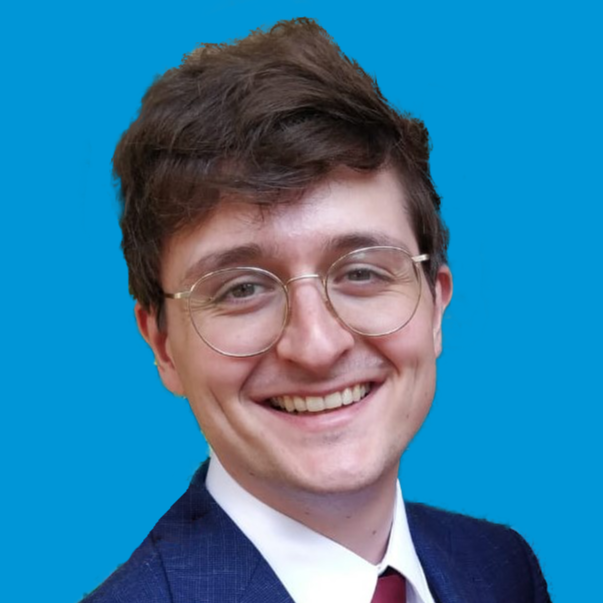
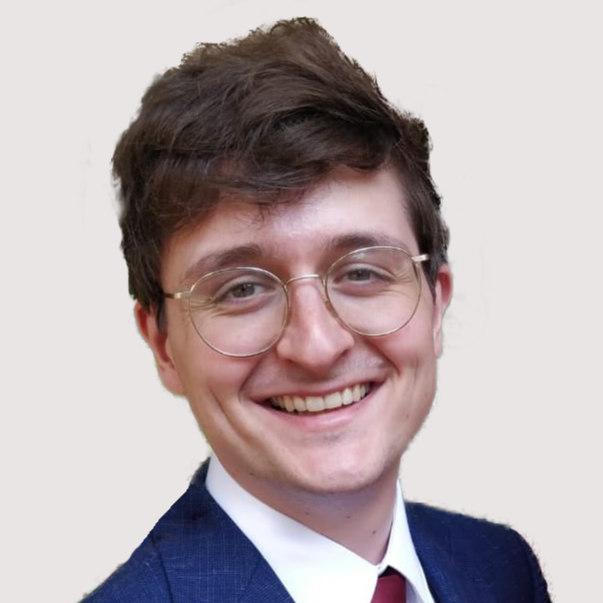
Basic Layout. Skills, Experience and Education

diff --git a/index.html b/index.html
@@ -3,9 +3,9 @@
     <head>
         <meta charset="utf-8" />
         <meta name="viewport" content="width=device-width, initial-scale=1, shrink-to-fit=no" />
-        <meta name="description" content="" />
-        <meta name="author" content="" />
-        <title>Resume - Start Bootstrap Theme</title>
+        <meta name="description" content="Resume of Christian Brandt von Fackh" />
+        <meta name="author" content="Christian Brandt von Fackh" />
+        <title>Resume - Christian Brandt von Fackh</title>
         <link rel="icon" type="image/x-icon" href="assets/img/favicon.ico" />
         <!-- Font Awesome icons (free version)-->
         <script src="https://use.fontawesome.com/releases/v6.1.0/js/all.js" crossorigin="anonymous"></script>
@@ -19,18 +19,18 @@
         <!-- Navigation-->
         <nav class="navbar navbar-expand-lg navbar-dark bg-primary fixed-top" id="sideNav">
             <a class="navbar-brand js-scroll-trigger" href="#page-top">
-                <span class="d-block d-lg-none">Clarence Taylor</span>
+                <span class="d-block d-lg-none">Christian Brandt von Fackh</span>
                 <span class="d-none d-lg-block"><img class="img-fluid img-profile rounded-circle mx-auto mb-2" src="assets/img/profile.jpg" alt="..." /></span>
             </a>
             <button class="navbar-toggler" type="button" data-bs-toggle="collapse" data-bs-target="#navbarResponsive" aria-controls="navbarResponsive" aria-expanded="false" aria-label="Toggle navigation"><span class="navbar-toggler-icon"></span></button>
             <div class="collapse navbar-collapse" id="navbarResponsive">
                 <ul class="navbar-nav">
                     <li class="nav-item"><a class="nav-link js-scroll-trigger" href="#about">About</a></li>
+                    <li class="nav-item"><a class="nav-link js-scroll-trigger" href="#projects">Projects</a></li>
+                    <li class="nav-item"><a class="nav-link js-scroll-trigger" href="#skills">Skills</a></li>
                     <li class="nav-item"><a class="nav-link js-scroll-trigger" href="#experience">Experience</a></li>
                     <li class="nav-item"><a class="nav-link js-scroll-trigger" href="#education">Education</a></li>
-                    <li class="nav-item"><a class="nav-link js-scroll-trigger" href="#skills">Skills</a></li>
                     <li class="nav-item"><a class="nav-link js-scroll-trigger" href="#interests">Interests</a></li>
-                    <li class="nav-item"><a class="nav-link js-scroll-trigger" href="#awards">Awards</a></li>
                 </ul>
             </div>
         </nav>
@@ -44,15 +44,82 @@
                         <span class="text-primary">Brandt von Fackh</span>
                     </h1>
                     <h2 class="mb-5">
+                        
                         Game Development · C# Dev · Web Design · Tech Director
                     </h2>
                     <p class="lead mb-5">
-                        HERE COMES A WELCOME MSG & A SHORT DESCRIPTION ABOUT ME.
+                    HERE COMES A WELCOME MSG & A SHORT DESCRIPTION ABOUT ME.
                     </p>
                     <div class="social-icons">
                         <a class="social-icon" href="https://www.linkedin.com/in/christian-brandt-von-fackh-00247abb/" target="_blank"><i class="fab fa-linkedin-in"></i></a>
                         <a class="social-icon" href="mailto:christian.bvf@gmail.com"><i class="fa fa-envelope"></i></a>
                     </div>
+                </div>
+            </section>
+            <hr class="m-0" />
+            <!-- Projects-->
+            <section class="resume-section" id="projects">
+                <div class="resume-section-content">
+                    <h2 class="mb-5">Projects</h2>
+                    <p>HERE I WILL LIST MY PROJECTS</p>
+                </div>
+            </section>
+            <hr class="m-0" />
+            <!-- Skills-->
+            <section class="resume-section" id="skills">
+                <div class="resume-section-content">
+                    <h2 class="mb-5">Skills</h2>
+                    <div class="subheading mb-3">Programming Languages & Tools</div>
+
+                    <div class="skill-progress-bars">
+                        <span>C#</span>
+                        <div class="progress skill-progress-bar">
+                            <div class="progress-bar" role="progressbar" style="width: 95%"></div>
+                        </div>
+
+                        <span>Unity3D</span>
+                        <div class="progress skill-progress-bar">
+                            <div class="progress-bar" role="progressbar" style="width: 90%"></div>
+                        </div>
+
+                        <span>Git, GitLab, Github</span>
+                        <div class="progress skill-progress-bar">
+                            <div class="progress-bar" role="progressbar" style="width: 80%"></div>
+                        </div>
+
+                        <span>WordPress, Elementor</span>
+                        <div class="progress skill-progress-bar">
+                            <div class="progress-bar" role="progressbar" style="width: 66%"></div>
+                        </div>
+
+                        <span>TypeScript</span>
+                        <div class="progress skill-progress-bar">
+                            <div class="progress-bar" role="progressbar" style="width: 50%"></div>
+                        </div>
+
+                        <span>HTML, CSS</span>
+                        <div class="progress skill-progress-bar">
+                            <div class="progress-bar" role="progressbar" style="width: 50%"></div>
+                        </div>
+                    </div>
+
+                    <br>
+                    <br>
+
+                    <div class="subheading mb-3">Topics</div>
+                    <ul class="list-inline topic-tags">
+                        <li class="list-inline-item"><span class="badge bg-primary icon-badge">Gameplay</span></li>
+                        <li class="list-inline-item"><span class="badge bg-primary icon-badge">Editor Tools</span></li>
+                        <li class="list-inline-item"><span class="badge bg-primary icon-badge">Prototypes</span></li>
+                        <li class="list-inline-item"><span class="badge bg-primary icon-badge">Agile Development</span></li>
+                        <li class="list-inline-item"><span class="badge bg-primary icon-badge">Scrum</span></li>
+                        <li class="list-inline-item"><span class="badge bg-primary icon-badge">Code Review</span></li>
+                        <li class="list-inline-item"><span class="badge bg-primary icon-badge">Mentoring</span></li>
+                        <li class="list-inline-item"><span class="badge bg-primary icon-badge">Project Planning</span></li>
+                        <li class="list-inline-item"><span class="badge bg-primary icon-badge">Web Development</span></li>
+                        <li class="list-inline-item"><span class="badge bg-primary icon-badge">Landing Pages</span></li>
+                        <li class="list-inline-item"><span class="badge bg-primary icon-badge">Tools</span></li>
+                    </ul>
                 </div>
             </section>
             <hr class="m-0" />
@@ -109,62 +176,23 @@
                     <h2 class="mb-5">Education</h2>
                     <div class="d-flex flex-column flex-md-row justify-content-between mb-5">
                         <div class="flex-grow-1">
-                            <h3 class="mb-0">University of Colorado Boulder</h3>
+                            <h3 class="mb-0">Media Design Hochschule, Berlin</h3>
                             <div class="subheading mb-3">Bachelor of Science</div>
-                            <div>Computer Science - Web Development Track</div>
-                            <p>GPA: 3.23</p>
+                            <div>Game Design - Programming Track</div>
+                            <p>Thesis: <i>Interfacedesign in Games for Children on Mobile Devices</i></p>
+                            <p>Final Grade: 1.77 (good)</p>
                         </div>
-                        <div class="flex-shrink-0"><span class="text-primary">August 2006 - May 2010</span></div>
+                        <div class="flex-shrink-0"><span class="text-primary">August 2010 - January 2013</span></div>
                     </div>
                     <div class="d-flex flex-column flex-md-row justify-content-between">
                         <div class="flex-grow-1">
-                            <h3 class="mb-0">James Buchanan High School</h3>
-                            <div class="subheading mb-3">Technology Magnet Program</div>
-                            <p>GPA: 3.56</p>
+                            <h3 class="mb-0">John T. Essberger GmbH, Hamburg</h3>
+                            <div class="subheading mb-3">Apprenticeship</div>
+                            <p>Shipping Management Assistant (Tamp Shipping)</p>
+                            <p>Final Grade: 81/100 (good)</p>
                         </div>
                         <div class="flex-shrink-0"><span class="text-primary">August 2002 - May 2006</span></div>
                     </div>
-                </div>
-            </section>
-            <hr class="m-0" />
-            <!-- Skills-->
-            <section class="resume-section" id="skills">
-                <div class="resume-section-content">
-                    <h2 class="mb-5">Skills</h2>
-                    <div class="subheading mb-3">Programming Languages & Tools</div>
-                    <ul class="list-inline dev-icons">
-                        <li class="list-inline-item"><i class="fab fa-html5"></i></li>
-                        <li class="list-inline-item"><i class="fab fa-css3-alt"></i></li>
-                        <li class="list-inline-item"><i class="fab fa-js-square"></i></li>
-                        <li class="list-inline-item"><i class="fab fa-angular"></i></li>
-                        <li class="list-inline-item"><i class="fab fa-react"></i></li>
-                        <li class="list-inline-item"><i class="fab fa-node-js"></i></li>
-                        <li class="list-inline-item"><i class="fab fa-sass"></i></li>
-                        <li class="list-inline-item"><i class="fab fa-less"></i></li>
-                        <li class="list-inline-item"><i class="fab fa-wordpress"></i></li>
-                        <li class="list-inline-item"><i class="fab fa-gulp"></i></li>
-                        <li class="list-inline-item"><i class="fab fa-grunt"></i></li>
-                        <li class="list-inline-item"><i class="fab fa-npm"></i></li>
-                    </ul>
-                    <div class="subheading mb-3">Workflow</div>
-                    <ul class="fa-ul mb-0">
-                        <li>
-                            <span class="fa-li"><i class="fas fa-check"></i></span>
-                            Mobile-First, Responsive Design
-                        </li>
-                        <li>
-                            <span class="fa-li"><i class="fas fa-check"></i></span>
-                            Cross Browser Testing & Debugging
-                        </li>
-                        <li>
-                            <span class="fa-li"><i class="fas fa-check"></i></span>
-                            Cross Functional Teams
-                        </li>
-                        <li>
-                            <span class="fa-li"><i class="fas fa-check"></i></span>
-                            Agile Development & Scrum
-                        </li>
-                    </ul>
                 </div>
             </section>
             <hr class="m-0" />
@@ -172,55 +200,13 @@
             <section class="resume-section" id="interests">
                 <div class="resume-section-content">
                     <h2 class="mb-5">Interests</h2>
-                    <p>Apart from being a web developer, I enjoy most of my time being outdoors. In the winter, I am an avid skier and novice ice climber. During the warmer months here in Colorado, I enjoy mountain biking, free climbing, and kayaking.</p>
-                    <p class="mb-0">When forced indoors, I follow a number of sci-fi and fantasy genre movies and television shows, I am an aspiring chef, and I spend a large amount of my free time exploring the latest technology advancements in the front-end web development world.</p>
-                </div>
-            </section>
-            <hr class="m-0" />
-            <!-- Awards-->
-            <section class="resume-section" id="awards">
-                <div class="resume-section-content">
-                    <h2 class="mb-5">Awards & Certifications</h2>
-                    <ul class="fa-ul mb-0">
-                        <li>
-                            <span class="fa-li"><i class="fas fa-trophy text-warning"></i></span>
-                            Google Analytics Certified Developer
-                        </li>
-                        <li>
-                            <span class="fa-li"><i class="fas fa-trophy text-warning"></i></span>
-                            Mobile Web Specialist - Google Certification
-                        </li>
-                        <li>
-                            <span class="fa-li"><i class="fas fa-trophy text-warning"></i></span>
-                            1
-                            <sup>st</sup>
-                            Place - University of Colorado Boulder - Emerging Tech Competition 2009
-                        </li>
-                        <li>
-                            <span class="fa-li"><i class="fas fa-trophy text-warning"></i></span>
-                            1
-                            <sup>st</sup>
-                            Place - University of Colorado Boulder - Adobe Creative Jam 2008 (UI Design Category)
-                        </li>
-                        <li>
-                            <span class="fa-li"><i class="fas fa-trophy text-warning"></i></span>
-                            2
-                            <sup>nd</sup>
-                            Place - University of Colorado Boulder - Emerging Tech Competition 2008
-                        </li>
-                        <li>
-                            <span class="fa-li"><i class="fas fa-trophy text-warning"></i></span>
-                            1
-                            <sup>st</sup>
-                            Place - James Buchanan High School - Hackathon 2006
-                        </li>
-                        <li>
-                            <span class="fa-li"><i class="fas fa-trophy text-warning"></i></span>
-                            3
-                            <sup>rd</sup>
-                            Place - James Buchanan High School - Hackathon 2005
-                        </li>
-                    </ul>
+                    <p>HERE I WRITE SOMETHING ABOUT MYSELF</p>
+                    <p class="mb-0">MTG</p>
+                    <p class="mb-0">Boardgames</p>
+                    <p class="mb-0">Gaming</p>
+                    <p class="mb-0">Cooking</p>
+                    <p class="mb-0">Ski / Hikes</p>
+                    <p class="mb-0">Dog</p>
                 </div>
             </section>
         </div>

diff --git a/css/styles.css b/css/styles.css
@@ -33,7 +33,7 @@
   --bs-gray-700: #495057;
   --bs-gray-800: #343a40;
   --bs-gray-900: #212529;
-  --bs-primary: #bd5d38;
+  --bs-primary: #711b29;
   --bs-secondary: #6c757d;
   --bs-success: #198754;
   --bs-info: #0dcaf0;
@@ -41,7 +41,7 @@
   --bs-danger: #dc3545;
   --bs-light: #f8f9fa;
   --bs-dark: #212529;
-  --bs-primary-rgb: 189, 93, 56;
+  --bs-primary-rgb: 113, 27, 41;
   --bs-secondary-rgb: 108, 117, 125;
   --bs-success-rgb: 25, 135, 84;
   --bs-info-rgb: 13, 202, 240;
@@ -61,7 +61,7 @@
   --bs-body-font-weight: 400;
   --bs-body-line-height: 1.5;
   --bs-body-color: #212529;
-  --bs-body-bg: #fff;
+  --bs-body-bg: #eae5e5;
 }
 
 *,
@@ -5033,7 +5033,7 @@ textarea.form-control-lg {
   color: #fff;
   text-align: center;
   white-space: nowrap;
-  background-color: #bd5d38;
+  background-color: var(--bs-primary);
   transition: width 0.6s ease;
 }
 @media (prefers-reduced-motion: reduce) {
@@ -11400,11 +11400,11 @@ p.lead {
   margin-right: 0;
 }
 .social-icons .social-icon:hover {
-  background-color: #bd5d38;
+  background-color: var(--bs-primary);
 }
 
-.dev-icons {
-  font-size: 3rem;
+.topic-tags {
+  font-size: 1.5rem;
 }
 
 section.resume-section {
@@ -11432,4 +11432,13 @@ section.resume-section .resume-section-content {
     padding-top: 5rem;
     padding-bottom: 5rem;
   }
+}
+
+.skill-progress-bar{
+  height: 2px;
+  margin-bottom: 1.75em;
+}
+
+.skill-progress-bars{
+  font-size: 1.25rem;
 }
